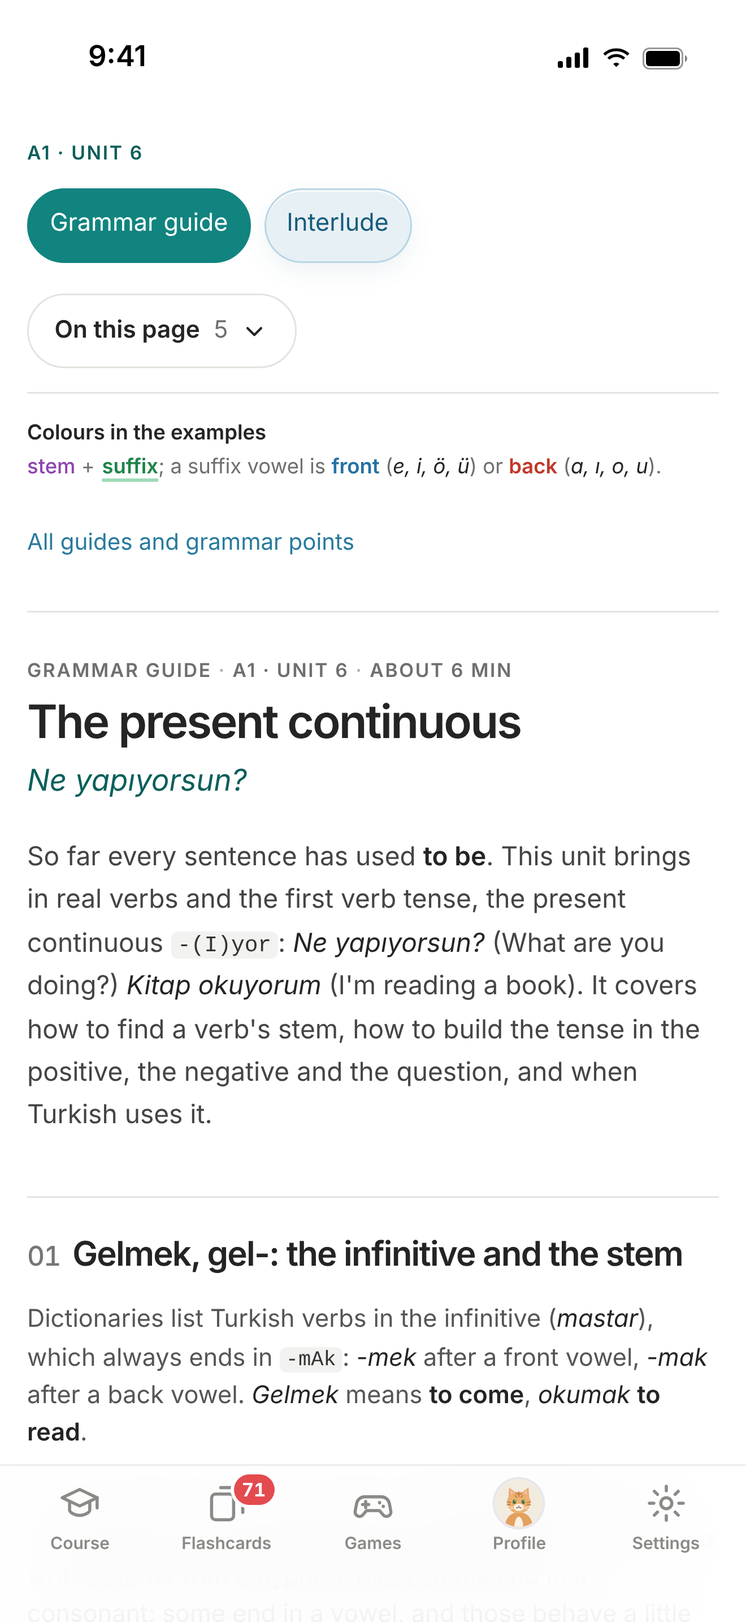
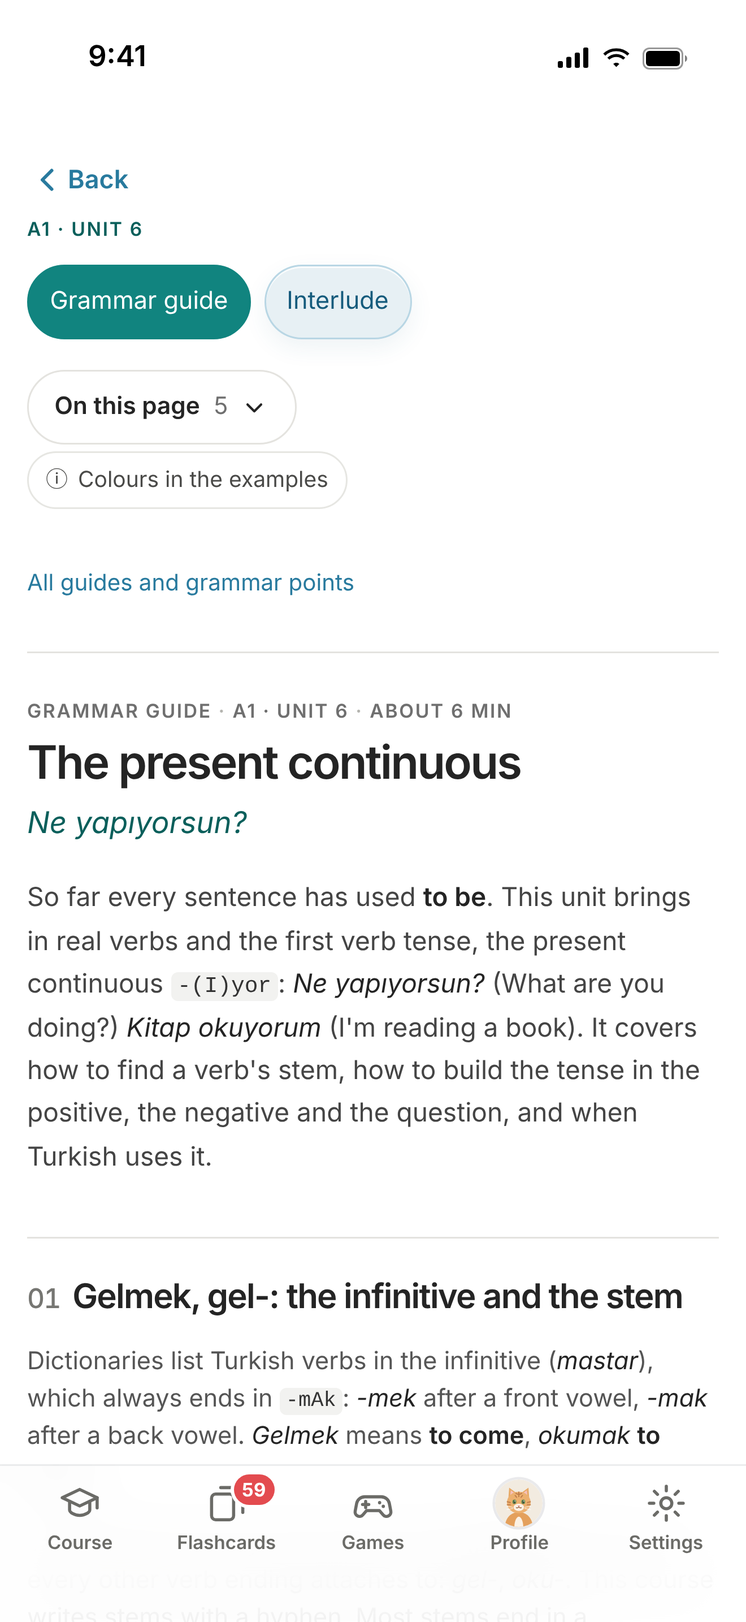
appstore

diff --git a/app/src/turkish-app.js b/app/src/turkish-app.js
@@ -429,6 +429,9 @@
       } catch (e) { /* no haptics */ }
     }
 
+    // The first day the app was used (APP-9j: the rating prompt waits a few days).
+    if (!ls("trk:app:since")) ls("trk:app:since", Date.now());
+
     // 3. New cards come from finished units by default in the app, once (the learner can turn it off in Settings).
     if (!ls("trk:app:taught")) { ls("trk:app:taught", 1); try { store.setSettings({ onlyTaughtWords: true }); } catch (e) { /* kept as is */ } }
 
@@ -438,7 +441,7 @@
       // and the XP ring filling up again (turkish-app.js's top bar, turkish-app.css).
       try {
         var fr = JSON.parse(root.sessionStorage.getItem("trk:v1:fresh") || "null");
-        if (fr && Date.now() - fr.t < 30 * 60 * 1000) { root.TRKFresh = true; setTimeout(function () { root.TRKFresh = false; }, 6000); }
+        if (fr && Date.now() - fr.t < 30 * 60 * 1000) { root.TRKFresh = true; root.TRKFreshInfo = fr; setTimeout(function () { root.TRKFresh = false; }, 6000); }
       } catch (e) { /* no greeting change */ }
 
       // Settings: the flashcards' note from their old Settings view, and a small Backup box (Export, Import; no Reset).
@@ -922,6 +925,27 @@
     tstore.onChange(function () { clearTimeout(wTimer); wTimer = setTimeout(widgetUpdate, 800); });
     document.addEventListener("visibilitychange", function () { if (document.visibilityState === "hidden") widgetUpdate(); });
   }
+
+  // ── Apple's rating prompt (APP-9j), at a happy moment: back on the course right after finishing a unit, or after a
+  //    lesson on a streak of 5 days or more; only once the app has been used for 3 days and 6 lessons, at most 3
+  //    times, 4 months apart (iOS itself shows it at most 3 times a year). localStorage "trk:app:rate" { n, t }. ──
+  (function askRating() {
+    var fr = root.TRKFreshInfo;
+    if (!WidgetBridge || !fr) return;
+    try {
+      var rate = JSON.parse(root.localStorage.getItem("trk:app:rate")) || { n: 0, t: 0 };
+      var since = +JSON.parse(root.localStorage.getItem("trk:app:since") || "0") || Date.now();
+      var course = tstore.course(), lessons = Object.keys(course.lessons || {}).length;
+      var streak = TRK.progress.streak(course, tstore.settings(), Date.now()).current;
+      var unitDone = fr.units && Object.keys(fr.units).length > 0;
+      if (rate.n >= 3 || Date.now() - rate.t < 120 * 864e5 || Date.now() - since < 3 * 864e5 || lessons < 6) return;
+      if (!unitDone && streak < 5) return;
+      setTimeout(function () {
+        quietly(WidgetBridge.requestReview());
+        try { root.localStorage.setItem("trk:app:rate", JSON.stringify({ n: rate.n + 1, t: Date.now() })); } catch (e) { /* asked again later */ }
+      }, 2200);   // after the top bar's "Harika!"
+    } catch (e) { /* no prompt */ }
+  })();
 
   var LN = root.capacitorLocalNotifications && root.capacitorLocalNotifications.LocalNotifications;
   if (!LN) return;

diff --git a/app/ios/App/App/SceneDelegate.swift b/app/ios/App/App/SceneDelegate.swift
@@ -1,10 +1,12 @@
 import UIKit
 import Capacitor
 import WidgetKit
+import StoreKit
 
 // APP-9g: the app's own view controller registers WidgetBridge, the small plugin that hands the home-screen widget
 // its data: turkish-app.js calls WidgetBridge.update({ json }) and the JSON lands in the shared App Group, where
-// DailyTurkishWidget reads it.
+// DailyTurkishWidget reads it. APP-9j: requestReview() shows Apple's rating prompt (iOS decides whether it appears,
+// at most three times a year), which turkish-app.js asks for at a happy moment.
 class AppViewController: CAPBridgeViewController {
     override func capacitorDidLoad() {
         bridge?.registerPluginInstance(WidgetBridgePlugin())
@@ -16,7 +18,8 @@ public class WidgetBridgePlugin: CAPPlugin, CAPBridgedPlugin {
     public let identifier = "WidgetBridgePlugin"
     public let jsName = "WidgetBridge"
     public let pluginMethods: [CAPPluginMethod] = [
-        CAPPluginMethod(name: "update", returnType: CAPPluginReturnPromise)
+        CAPPluginMethod(name: "update", returnType: CAPPluginReturnPromise),
+        CAPPluginMethod(name: "requestReview", returnType: CAPPluginReturnPromise)
     ]
 
     @objc public func update(_ call: CAPPluginCall) {
@@ -29,6 +32,21 @@ public class WidgetBridgePlugin: CAPPlugin, CAPBridgedPlugin {
             WidgetCenter.shared.reloadAllTimelines()
         }
         call.resolve()
+    }
+
+    @objc public func requestReview(_ call: CAPPluginCall) {
+        Task { @MainActor in
+            let scene = UIApplication.shared.connectedScenes
+                .first(where: { $0.activationState == .foregroundActive }) as? UIWindowScene
+            if let scene = scene {
+                if #available(iOS 16.0, *) {
+                    AppStore.requestReview(in: scene)
+                } else {
+                    SKStoreReviewController.requestReview(in: scene)
+                }
+            }
+            call.resolve()
+        }
     }
 }
 

diff --git a/turkish.html b/turkish.html
@@ -920,6 +920,7 @@
         <div class="about-body">
           <h2>The course</h2>
           <p>Turkish follows the spelling of the Türk Dil Kurumu; speech uses your device's own Turkish voice.</p>
+          <p>The order of the flashcard deck comes from <a href="https://github.com/hermitdave/FrequencyWords" target="_blank" rel="noopener">FrequencyWords</a> by Hermit Dave (<a href="https://creativecommons.org/licenses/by-sa/4.0/" target="_blank" rel="noopener">CC BY-SA 4.0</a>), a list of the most frequent Turkish words in film and TV subtitles (OpenSubtitles). The meanings, examples and notes are original.</p>
           <h2>The method</h2>
           <p><b>Spaced repetition.</b> The flashcards run on Anki's algorithm (SM-2) with its default settings. You grade each card Again, Hard, Good or Easy, and it comes back just before you would forget it: tomorrow, in a few days, then weeks and months later. A few minutes a day are enough to keep thousands of words.</p>
           <p><b>Fluent Forever.</b> The course follows Gabriel Wyner's book (2014): sounds first, the most frequent words first, every word in a real sentence, and active recall in both directions. One difference: Wyner says to make your own cards with pictures; here they come ready-made with English meanings, to save you the time.</p>

diff --git a/app/src/turkish-app.css b/app/src/turkish-app.css
@@ -297,7 +297,7 @@ html[data-app] .dl-after.app-later::before { content: "🔒 "; font-size: 11px; 
 /* Guides: a way back, and the colour legend behind a button. */
 .app-back { display: inline-flex; align-items: center; gap: 2px; margin: 6px 0 4px -6px; padding: 6px 8px; border-radius: 8px; color: #287a9e; font-weight: 600; font-size: 15px; text-decoration: none; }
 html[data-app] .legend:not(.app-show)[data-app] { display: none; }
-.app-legend-btn { display: inline-flex; gap: 6px; align-items: center; margin: 4px 0 8px; padding: 6px 10px; border-radius: 999px; border: 1px solid #e6e6e2; background: #fff; font: inherit; font-size: 13px; color: #4a4a48; }
+.app-legend-btn { align-self: flex-start; width: auto; display: inline-flex; gap: 6px; align-items: center; margin: 4px 0 8px; padding: 6px 10px; border-radius: 999px; border: 1px solid #e6e6e2; background: #fff; font: inherit; font-size: 13px; color: #4a4a48; }
 
 /* Flashcards: no Settings view (it's in the Settings tab), a bigger start card, simpler statistics. */
 html[data-app] #views a[data-view="settings"] { display: none; }

diff --git a/app/store/listing.md b/app/store/listing.md
@@ -9,12 +9,12 @@ and from the pages themselves (32 achievements, the reminder, haptics, the optio
 | Field | Characters | Limit |
 |---|---|---|
 | App name | 13 | 30 |
-| Subtitle | 27 | 30 |
-| Promotional text | 160 | 170 |
-| Keywords | 99 | 100 |
-| Description | 2,329 | 4,000 |
-| What's New | 221 | 4,000 |
-| App Review notes | 878 | 4,000 |
+| Subtitle | 30 | 30 |
+| Promotional text | 162 | 170 |
+| Keywords | 94 | 100 |
+| Description | 2,565 | 4,000 |
+| What's New | 235 | 4,000 |
+| App Review notes | 1,248 | 4,000 |
 
 ## App Information (General › App Information)
 
@@ -24,10 +24,10 @@ and from the pages themselves (32 achievements, the reminder, haptics, the optio
 Daily Turkish
 ```
 
-**Subtitle** (27/30)
+**Subtitle** (30/30). Indexed for search, like the name: it covers "learn turkish", "turkish lessons" and "turkish words" (APP-9j; was *Learn Turkish from A1 to C2*).
 
 ```text
-Learn Turkish from A1 to C2
+Learn Turkish: lessons & words
 ```
 
 **Category:** Education (primary). Secondary: none, or Reference.
@@ -39,9 +39,8 @@ Learn Turkish from A1 to C2
 
 Why: the order of the words is adapted from FrequencyWords by Hermit Dave (CC BY-SA 4.0); the Lora font
 is under the SIL Open Font License (`LORA-OFL.txt` is bundled). Meanings, examples, notes, lessons and guides are your own.
-**Before submitting:** the FrequencyWords credit left the About page in the 5 November rewrite (8f26cda) and is now only in
-`LICENSE.txt`, which the app doesn't ship. CC BY-SA asks for the credit where the deck is used: put a line back in About (or the
-flashcards page) so this answer stays true (APP-8).
+The FrequencyWords credit is back in About › The course since APP-9j (it had left in the 5 November rewrite, 8f26cda), with
+links to the list and to CC BY-SA 4.0, so this answer is true. The 15 words the app adds (APP-9) are not from the list.
 
 ### Age Rating (Edit, then answer)
 
@@ -119,11 +118,12 @@ YOUR PROGRESS STAYS YOURS
 The app and its explanations are in English.
 ```
 
-**Keywords** (99/100). Comma-separated, no spaces after commas. Words already in the name and subtitle ("daily", "turkish",
-"learn", "from", "a1", "to", "c2") are left out, since Apple already indexes them; no other app's name is used.
+**Keywords** (94/100). Comma-separated, no spaces after commas. Apple combines them with the words of the name and
+subtitle ("daily", "turkish", "learn", "lessons", "words"), so those aren't repeated; Apple also matches plurals. No other app's
+name is used. "tys" (the Turkish proficiency exam the Games practice test prepares for) is a niche no one else targets.
 
 ```text
-türkçe,turkce,language,lessons,grammar,vocabulary,flashcards,words,verbs,spaced repetition,beginner
+speak,language,grammar,vocabulary,flashcards,verbs,phrases,beginner,istanbul,turkey,türkçe,tys
 ```
 
 **Support URL:** `https://dailyturkish.app/` · **Marketing URL:** leave empty · **Copyright:** `2026 Grégoire Maillard`
@@ -140,20 +140,141 @@ the record, or reuse it for 1.1.
 The first version of Daily Turkish: 226 lessons from A1 to C2, a grammar guide and a culture interlude for every unit, 1,000 flashcards with spaced repetition, conversations to practise, a daily reminder and an optional synced profile.
 ```
 
-**Screenshots, 6.9-inch display** (1320 × 2868 px, portrait, in this order), from `app/store/screenshots/`:
+**Screenshots, 6.9-inch display** (1320 × 2868 px, portrait, in this order). Upload the **captioned** ones, from
+`app/store/screenshots/captioned/` (APP-9j): a headline over each screen sells it better, and ASO firms report that Apple reads
+screenshot captions for search since June 2025 (Apple hasn't confirmed it), so they repeat the search words: learn Turkish, speak,
+Turkish words, grammar. The bare screens stay in `app/store/screenshots/`.
 
-1. `01-path.png`: the Course tab: XP, streak and Tekir saying *Günaydın!*, the level strip, the Continue card (A1 unit 6, lesson 3) and A1's finished units as short rows, with the five-tab bar and the Flashcards count
-2. `02-lesson-exercise.png`: a dialogue exercise answered correctly, 10 in a row, the companion cheering
-3. `03-lesson-complete.png`: the end-of-lesson screen with Tekir, daily goal met
-4. `04-flashcards.png`: a flashcard (*getirmek*) with its answer, forms and grading buttons
-5. `05-grammar-guide.png`: the grammar guide of A1 unit 6
-6. `06-my-profile.png`: My Profile (level, XP, streak, XP chart)
+1. `01-path.png`: **Learn Turkish in 5 minutes a day** · *From A1 to C2, one short lesson at a time*: the Course tab (XP, streak, Tekir, the level strip, the Continue card, A1's units as short rows, the five tabs)
+2. `02-lesson-exercise.png`: **Speak Turkish with confidence** · *Instant feedback on every answer*: a dialogue exercise answered right, 10 in a row
+3. `03-lesson-complete.png`: **Keep your streak going** · *Daily goals, XP and 32 achievements*: the end of a lesson, goal met
+4. `04-flashcards.png`: **1,000 essential Turkish words** · *Flashcards with spaced repetition*: *getirmek* with its answer and grades
+5. `05-grammar-guide.png`: **Turkish grammar, made clear** · *A guide and a culture story in every unit*: the A1 unit 6 guide
+6. `06-my-profile.png`: **Watch your Turkish grow** · *Your level, streak and progress, day by day*: My Profile
 
-Re-rendered in APP-9 for the tab bar, and 1, 5, 6 again in APP-9d for the five tabs (1, 4, 5, 6 taken again from a new demo progress; 2 and 3 are the APP-8 lesson
-screens with the header's tabs painted out, which is exactly what the lesson page now shows: the logo alone).
+Layout: the logo and name at the top, the headline (the search word in the brand red) and a line under it, then the screen in a
+dark phone frame, on a light tint that changes per screen. They show a made-up learner (demo progress built with the course's own
+functions: 22 lessons, 21-day streak, about 130 words started), not real progress. 6.9-inch screenshots are scaled down for the
+smaller iPhones, so no other size is needed.
 
-They show a made-up learner (demo progress built with the course's own functions: 22 lessons, 21-day streak, about 130 words started),
-not real progress. 6.9-inch screenshots are scaled down for the smaller iPhones, so no other size is needed.
+## Other languages (App Information › Localizable Information, then the language menu at the top right › add)
+
+Each language added in App Store Connect has its own name, subtitle, keywords, promotional text and description. Apple searches
+several of them in some countries, so each one adds keywords (APP-9j). Words don't combine across languages: "turkish" in English (US)
+and "travel" in Spanish (Mexico) don't make "turkish travel", so each set repeats what it needs. Screenshots: leave "use the same
+screenshots" for every language. The app itself stays in English; the German and French descriptions say so in their first line.
+
+### Spanish (Mexico): a second English keyword set for the US
+
+The US App Store also searches the Spanish (Mexico) page. Since the course isn't for Spanish speakers, this page is written in
+English: Mexico and the rest of Latin America then see the English page, which matches the app. Copy the promotional text and the
+description from English (US).
+
+- Name: `Daily Turkish` · Subtitle (28/30): `Turkish course for beginners`
+- Keywords (92/100):
+
+```text
+travel,conjugation,alphabet,practice,study,quiz,conversation,offline,exam,culture,phrasebook
+```
+
+### English (U.K.): the UK, and the many countries that use it
+
+Copy the promotional text and the description from English (US). Same name and subtitle. Keywords (98/100), with "holiday"
+for British searches:
+
+```text
+speak,language,grammar,vocabulary,flashcards,verbs,phrases,beginner,holiday,turkey,istanbul,türkçe
+```
+
+### German: Germany, Austria and Switzerland (the German store also searches English (U.K.))
+
+- Name: `Daily Turkish` · Subtitle (28/30): `Türkisch lernen in Lektionen`
+- Keywords (97/100):
+
+```text
+sprache,sprachkurs,vokabeln,vokabeltrainer,grammatik,karteikarten,anfänger,sprechen,wörter,türkei
+```
+
+- Promotional text (164/170):
+
+```text
+Türkisch lernen in kurzen täglichen Lektionen, von A1 bis C2: Grammatik zu jeder Einheit, 1.000 wichtige Wörter, offline. Kostenlos, ohne Werbung. App auf Englisch.
+```
+
+- Description (1,284/4,000):
+
+```text
+Daily Turkish ist ein Türkischkurs für ein paar Minuten am Tag. Hinweis: Die App und ihre Erklärungen sind auf Englisch.
+
+DER KURS
+• 226 kurze Lektionen in 60 Einheiten, vom ersten „merhaba“ (A1) bis C2.
+• Fast 2.900 Übungen: Multiple Choice, Lückentexte, Übersetzungen, Wortbausteine, Konjugation, Lesen und Hören.
+• Sofortiges Feedback nach jeder Antwort, mit Erklärungen zu typischen Fehlern.
+• 12 Alltagsgespräche von A1 bis B2: im Café, im Taxi, in der Apotheke und mehr.
+
+GRAMMATIK, VERSTÄNDLICH
+• Zu jeder Einheit ein Grammatikkapitel mit Tabellen und Beispielen: Vokalharmonie, Fälle, Zeiten, Konditional, Passiv und mehr.
+• Zu jeder Einheit ein Kapitel über Kultur oder Geschichte.
+
+1.000 WÖRTER MIT KARTEIKARTEN
+• Die 1.000 wichtigsten Wörter, jedes mit einem Beispielsatz und seiner Übersetzung.
+• Wiederholung im richtigen Moment, nach dem SM-2-Algorithmus (wie Anki).
+
+DRANBLEIBEN
+• Tagesziel, Serie, 32 Erfolge und ein Widget für den Home-Bildschirm.
+• Eine tägliche Erinnerung, abwechselnd mit einem Wort des Tages.
+• Ein Wortspiel gegen die Uhr: 60 Sekunden, 10 Wörter.
+
+DEINE DATEN
+• Dein Fortschritt bleibt auf deinem iPhone; Sicherung über die Dateien-App.
+• Ein optionales kostenloses Profil synchronisiert ihn mit dailyturkish.app.
+• Keine Werbung, kein Tracking.
+```
+
+### French: France, Belgium, Switzerland (French (Canada) is a separate language: paste this one there too)
+
+- Name: `Daily Turkish` · Subtitle (27/30): `Apprendre le turc pas à pas`
+- Keywords (100/100):
+
+```text
+cours,langue,leçons,vocabulaire,grammaire,verbes,mots,débutant,parler,turquie,istanbul,voyage,türkçe
+```
+
+- Promotional text (166/170):
+
+```text
+Apprenez le turc en courtes leçons quotidiennes, de A1 à C2 : un guide de grammaire par unité, 1 000 mots essentiels, hors ligne. Gratuit, sans pub. Appli en anglais.
+```
+
+- Description (1,305/4,000):
+
+```text
+Daily Turkish est un cours de turc pour quelques minutes par jour. À noter : l'application et ses explications sont en anglais.
+
+LE COURS
+• 226 leçons courtes en 60 unités, du premier « merhaba » (A1) jusqu'au C2.
+• Près de 2 900 exercices : QCM, textes à trous, traductions, mots à assembler, conjugaison, lecture et écoute.
+• Une correction immédiate après chaque réponse, avec l'explication des erreurs courantes.
+• 12 conversations du quotidien, de A1 à B2 : au café, en taxi, à la pharmacie et plus encore.
+
+LA GRAMMAIRE, CLAIREMENT
+• Un guide de grammaire par unité, avec tableaux et exemples : harmonie vocalique, cas, temps, conditionnel, passif et bien plus.
+• Un intermède culturel ou historique dans chaque unité.
+
+1 000 MOTS EN FLASHCARDS
+• Les 1 000 mots les plus utiles, chacun avec une phrase d'exemple et sa traduction.
+• Des révisions au bon moment, selon l'algorithme SM-2 (comme Anki).
+
+GARDER LE RYTHME
+• Objectif quotidien, série de jours, 32 succès et un widget pour l'écran d'accueil.
+• Un rappel quotidien, en alternance avec un mot du jour.
+• Un jeu de vitesse : 10 mots en 60 secondes.
+
+VOS DONNÉES
+• Votre progression reste sur votre iPhone ; sauvegarde dans l'app Fichiers.
+• Un profil gratuit et facultatif la synchronise avec dailyturkish.app.
+• Sans publicité, sans pistage.
+```
 
 ## App Review Information
 

diff --git a/turkish/PROJECT.md b/turkish/PROJECT.md
@@ -1583,3 +1583,4 @@ One row per conversation, newest at the bottom.
 | 2026-11-12 | APP-9f | **App review** asked by Grégoire (findings given to him in chat, nothing else changed). **Bug fixed**: since APP-9c, My Profile's section menu was as wide as its pills (788 px on a 390 px phone): the profile's flex column kept the grid's `align-items: start`; now `stretch` (`turkish-app.css`), so the menu scrolls inside the screen. | Not run. Headless Chromium at 390 px: every app page (hub views, cards views, guide, guide index, dialogues, TYS, lesson) has body width = screen width. | Nothing committed by Claude. |
 | 2026-11-12 | APP-9g | **Review follow-ups, asked by Grégoire** (his picks from APP-9f), app only unless said. **Shorter path (#1)**: shown as a preview image only (finished units as a ✓ row, future ones as a 🔒 row, the current unit in full; 11,150 → 2,690 px), waiting for his go. **New cards from finished units** by default in the app (`onlyTaughtWords` set once, "trk:app:taught"), so a new learner's Flashcards count starts at 0. **Lesson start**: three new words and "+N more", no "Card" links, Start and Back in a bar stuck to the bottom. **No Turkish voice note** once, then only in Settings (`.voice-note` on the lesson, TYS and conversation notes in `turkishlesson.html`; "trk:app:voice-told"); the TYS and conversation notes say "this iPhone" without "reload the page" in the app; account texts (`turkish.html`, `turkish-account.js`) say "this iPhone" / "close and reopen the app" in the app. **Flashcards › Settings removed** in the app (the view redirects to Settings; its only extra, the interval note, moved to Settings › Flashcards). **Backup**: Settings' progress box is back as "Backup" (Export, Import; no Reset), and the listing names it again. **Flow**: Back to Games after a conversation, the TYS or practice; a Back link on guides; "Jump here" only on the next locked unit, as "Already know this? Take the test"; a first-launch welcome (character, "Ready for your first Turkish lesson?", Start lesson 1 / Look around first; "trk:app:welcomed"; the reminder offer waits for it); after a lesson the top bar says *Harika!* and the XP ring refills; Games keeps "Your mistakes" with a cheer when empty, and gets a **Speed round** (10 words, 4 meanings, 60 s, +1 XP a right answer through `TRK.progress.addXp`, best in "trk:app:speed"). **Look**: the flame turns orange and pops once today counts; no "Turkish · …" kickers on Profile and Flashcards; a bigger Flashcards start card with "N cards · about M min" (12 s a card); Statistics lead with "You remember about 9 out of 10 words", retention and card counts behind Details; My Profile shows the next three achievements (See all 32) and folds Study calendar, Your progress and Levels (6,700 → 2,750 px); tab labels 11 px, darker when off; **red native launch screen** (LaunchScreen.storyboard: #e34b4f with the white mark 150 pt centred; Splash image set now holds the 150/300/450 px mark under its old file names; `capacitor.config.json` ios.backgroundColor #e34b4f) so it runs into the daily splash. **Content**: one line on *sen* and *siz* on the conversations list (site and app); each scene shows ✓ or 🔒 against its unit; guides' colour legend behind an ⓘ button. **Home-screen widget**: new target `DailyTurkishWidget` (WidgetKit, iOS 15+, small and medium: flame + streak, "Done today"/"Keep it today", word of the day with its meaning; `app/ios/App/DailyTurkishWidget/`), embedded in the app (`project.pbxproj`: target, Embed Foundation Extensions, dependency, `app.dailyturkish.widget`); App Group `group.app.dailyturkish` (`App/App.entitlements`, `DailyTurkishWidget.entitlements`); `App/SceneDelegate.swift` now starts `AppViewController`, which registers `WidgetBridge` (`update({ json })` → shared UserDefaults "widget", then `WidgetCenter.reloadAllTimelines()`); `turkish-app.js` sends the streak, its last day, the day-start hour and the words of the next 7 days on every save and when the app goes to the background; the word of each day is now shared with the notifications and kept once chosen (`dayWords`, "trk:app:wotd"). Workflow: a step signs the unsigned archive's widget and app ad hoc with their entitlements, since the export keeps only the entitlements of an existing signature. `RELEASE.md` B2: the App Group and the widget's App ID to register first. | Not run. App build: 460 files, 1,000 cards. Headless Chromium at 390 px: welcome and its link, taught-words default, three words and the sticky Start, the voice note once, Jump here (1 shown, 53 hidden), Games with the empty-mistakes card and a full Speed round (score, XP, best), profile folds and next achievements, Settings with Backup and the interval note, cards start card and stats, cards settings redirect, Back to Games, conversations ✓/🔒, guide Back and legend button, no page wider than the screen, no script errors. Node: `dayWords` stable after studying the day's word; `plan()` unchanged. pbxproj parsed with mod-pbxproj (two targets, embed phase, dependency, entitlements per configuration). | Not compiled (no Mac): the widget, the bridge and the storyboard are first built by the workflow; if it fails, read the Archive step. Signing the App Group depends on B2 being done. Nothing committed by Claude. |
 | 2026-11-12 | APP-9h | **The short path**, approved by Grégoire after the APP-9g preview, app only (`turkish-app.css`, `turkish-app.js`). In the level picked in the strip, only the unit with the next lesson (`li.unit.is-here`) keeps its ferry, trail, lessons, grammar links and buttons; finished units are one row with a ✓ in the level colour, the units ahead one row with a lock (faded); tapping a row opens it in full (`li.app-open`, kept through the hub's redraws), tapping again folds it; the level's summary and "you can…" list are hidden. A1 with demo progress: 11,150 → 2,690 px; A2: 1,780 px. Store screenshot 1 re-rendered. | Not run. Headless Chromium at 390 px: heights above, no page wider than the screen, open/keep/fold, no script errors. | Nothing committed by Claude. |
+| 2026-11-12 | APP-9j | **App Store search and conversion**, asked by Grégoire after the ASO review. `app/store/listing.md`: subtitle *Learn Turkish: lessons & words* (30/30, was *Learn Turkish from A1 to C2*); keywords `speak,language,grammar,vocabulary,flashcards,verbs,phrases,beginner,istanbul,turkey,türkçe,tys` (94); new section **Other languages**: Spanish (Mexico) written in English as a second US keyword set (subtitle *Turkish course for beginners*, keywords travel…phrasebook), English (U.K.) (keywords with *holiday*), German (subtitle *Türkisch lernen in Lektionen*, German keywords, promotional text and description, first line "the app is in English") and French (subtitle *Apprendre le turc pas à pas*, the same in French; also for French (Canada)); the character table at the top recounted from the blocks (it still had the APP-5 numbers); Content Rights now true. **Captioned screenshots** in `app/store/screenshots/captioned/` (1320×2868: logo, headline with the search word in red, a line under it, the screen in a dark phone frame on a light tint): *Learn Turkish in 5 minutes a day*, *Speak Turkish with confidence*, *Keep your streak going*, *1,000 essential Turkish words*, *Turkish grammar, made clear*, *Watch your Turkish grow*; bare screen 5 re-rendered (Back link, ⓘ legend button, now not full width: `.app-legend-btn` align-self). **FrequencyWords credit** back in About › The course (site and app), with links to the list and CC BY-SA 4.0. **Rating prompt**: `WidgetBridge.requestReview()` (`App/SceneDelegate.swift`, StoreKit: `AppStore.requestReview(in:)` on iOS 16+, `SKStoreReviewController` before), asked by `turkish-app.js` 2.2 s after coming back to the course from a lesson that finished a unit, or from any lesson on a streak of 5+ days; only after 3 days and 6 lessons, at most 3 times, 4 months apart ("trk:app:rate", "trk:app:since"; iOS shows it at most 3 times a year). `RELEASE.md` steps 14 and 18. | Not run. Counts checked by `len()` in the edit script (`app/node_modules/.cache/listing_edit.py`, run on a copy first). Screenshots looked at. | Not compiled (the review method, like the widget, is first built by the workflow). Nothing committed by Claude. |

diff --git a/app/RELEASE.md b/app/RELEASE.md
@@ -87,7 +87,10 @@ archive first).
 
 14. **App Information** (left sidebar, under General):
     - Subtitle (30 characters max) · Category: **Education**
-    - Content Rights: the deck's word order is adapted from FrequencyWords (CC BY-SA 4.0, no longer credited in About since 5 November: put the credit back first, see `app/store/listing.md`):
+    - Other languages (language menu at the top right of this page › add): Spanish (Mexico), English (U.K.), German and French,
+      each with its own subtitle and keywords, ready in `app/store/listing.md` › Other languages. They only add search words;
+      the app stays in English.
+    - Content Rights: the deck's word order is adapted from FrequencyWords (CC BY-SA 4.0, credited again in About since APP-9j):
       answer that the app contains third-party content and you have the rights to use it
     - Age Rating › Edit › answer None/No throughout › result 4+ (true for the app's filtered course, see README
       "The course for a 4+ age rating"; the website's course would be 13+). Paste-ready answers: `app/store/listing.md`
@@ -100,7 +103,7 @@ archive first).
     in the EU. For a free hobby app you'd normally declare that you are **not a trader**. Declaring "trader"
     publishes your address and phone number on the store page.
 18. **Version 1.0 page** (App Store tab › iOS App 1.0):
-    - Screenshots for the **6.9″ display**: 1320×2868 px, 3 to 10 of them
+    - Screenshots for the **6.9″ display**: 1320×2868 px, 3 to 10 of them: the six in `app/store/screenshots/captioned/`, in order
     - Description, Keywords (100 characters, comma-separated), Support URL `https://dailyturkish.app/`,
       Copyright `2026 Grégoire Maillard`
     - **Build:** + › pick the build tested in TestFlight
